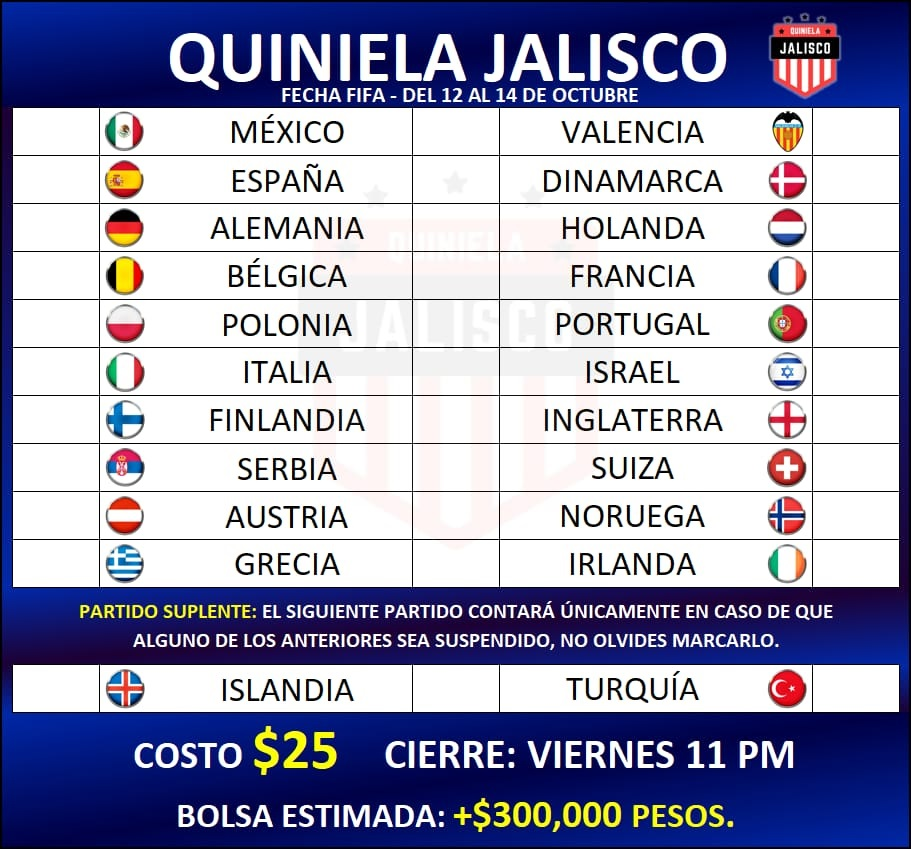
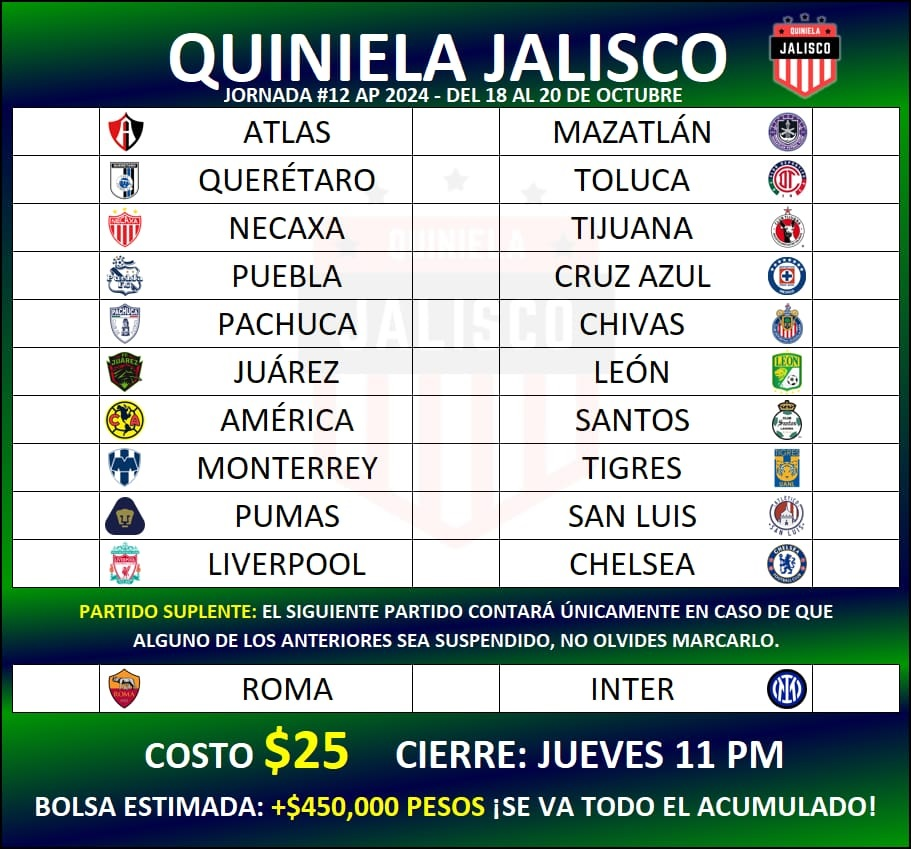
Jornada 12 A24

diff --git a/11/styles11.css b/11/styles11.css
@@ -95,8 +95,8 @@ body{
     margin-top: 8.5%;
     border-top: solid 1px black;
     border-radius: 0 0 14px 14px;
-    background: -webkit-linear-gradient(0.49turn, rgb(18 0 78) -7%, rgb(0, 19, 116) 80%);
-    background: linear-gradient(0.49turn, rgb(18 0 78) -7%, rgb(0, 19, 116) 80%);
+    background: -webkit-linear-gradient(0.49turn, rgb(0,68,39) -7%, rgb(0, 19, 116) 80%);
+    background: linear-gradient(0.49turn, rgb(0,68,39) -7%, rgb(0, 19, 116) 80%);
 }
 
 .text-lg{
@@ -293,7 +293,7 @@ h6{
 }
 
 #cantidad:before{
-    content:'+$300,000 pesos';
+    content:'+$450,000 pesos\A¡Se reparte todo el acumulado!';
     color: yellow;
     white-space:pre;
 }
